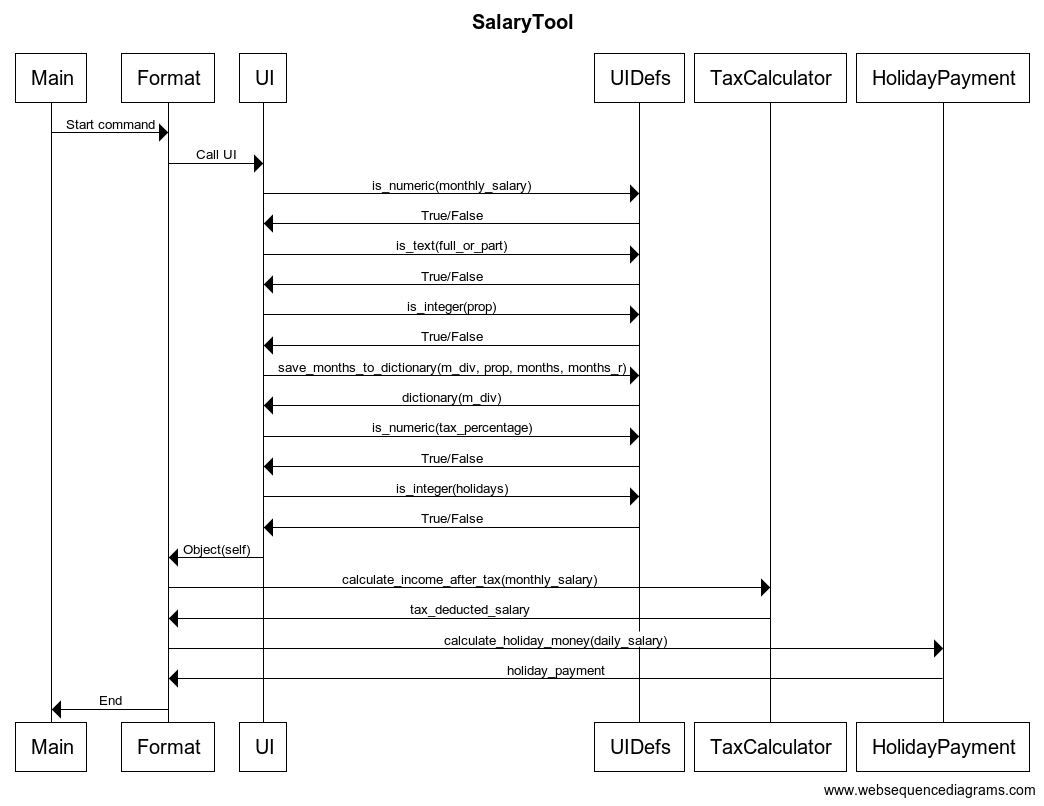
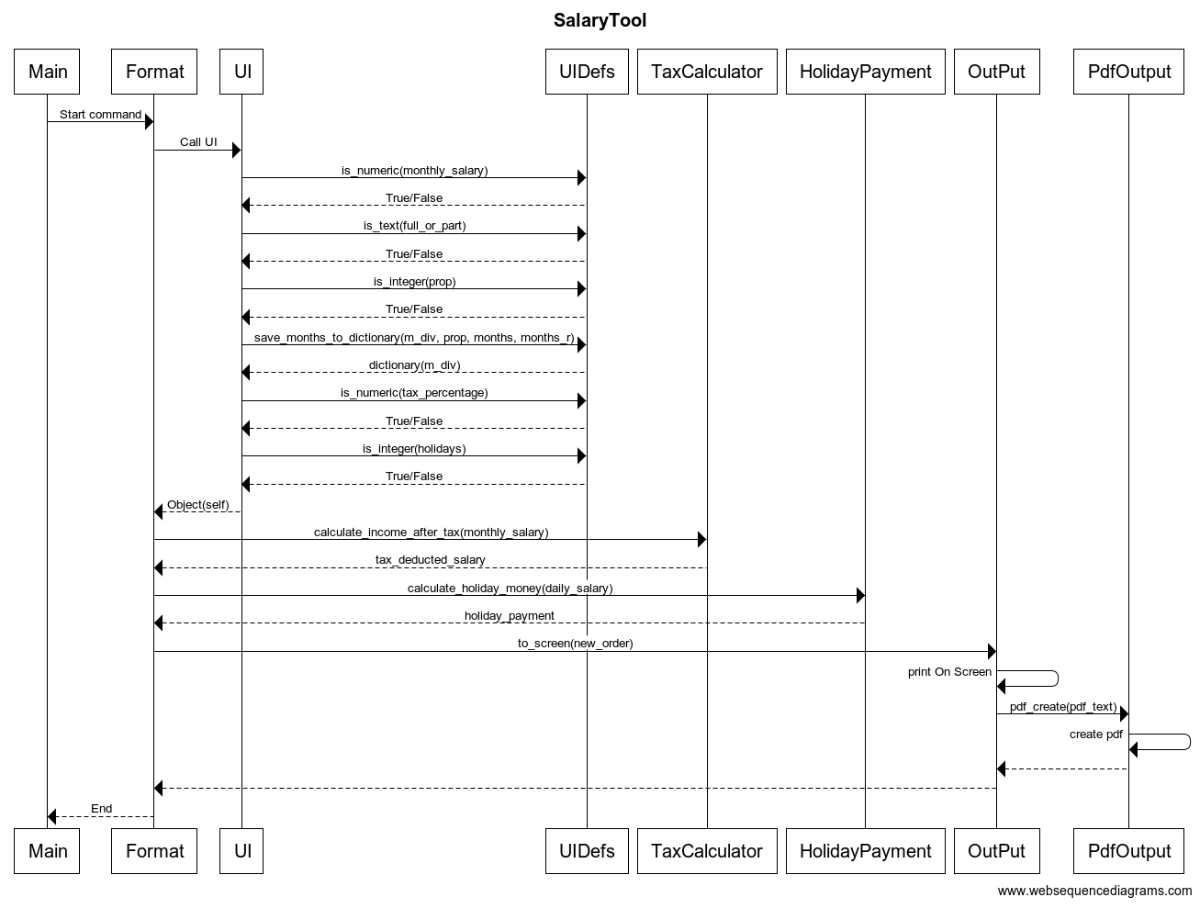
pdf luokkaerittely

diff --git a/SalaryTool/src/formatting/output.py b/SalaryTool/src/formatting/output.py
@@ -2,8 +2,19 @@
 from formatting.pdf_output import PdfOutput
 
 class OutPut:
+    """Luodaan otsikot sekä tulostetaan kasattu dataa ruudulle sekä kutsuu PdfOutput luokkaa pdf tallennusta varten
+    
+        Attributes:
+            
+        """
 
     def __init__(self):
+        """Luokan konstruktori, määritellään muuttujat sekä PdfOutput
+
+        Args:
+            
+        """
+
         self.holiday_net = 0
         self.holiday_gross = 0
         self.net = 0
@@ -12,6 +23,9 @@ class OutPut:
         self.pdf_output = PdfOutput()
         
     def _print_to_screen(self):
+        """Rivi riviltä tulostus ruudulle
+        """
+
         print("\n\n")
         for t in self.pdf_text:
             if t == "NewPage":
@@ -20,11 +34,16 @@ class OutPut:
             print(t)
             if(t[-1] == ":"):
                 print("\n")        
-        
-
-
+    
 
     def to_screen(self, new_order):
+        """UI:ssa syötetty dataa formatoidaan vielä vähän ennen ruudulle tulostusta sekä tallennetaan muotoon
+        josta helpost luodaan pdf tiedosto
+
+        Args:
+            new_order (dictionary): sisältää käyttäjän syöttämän datan helposti tulostettavassa järjestyksess
+        """
+
         text = " Payment information:"
         self.pdf_text.append(text)
         text = "Month".center(12) + "Gross".center(12) +"Net".center(12) + "Holiday Gross".center(20) + "Holiday net".center(20) + "Worktime %".center(10)
@@ -39,7 +58,6 @@ class OutPut:
             self.gross += float(li[1])
             self.net += float(li[2])
             
-
    
         self.pdf_text.append("NewPage")
         text = " Actual payment:"
@@ -53,7 +71,6 @@ class OutPut:
             if(month == 6):
                 tot = float(li[2]) + round(self.holiday_net,2)
                 text = li[0].center(12) + str(round(tot,2)).center(12) + str(round(self.holiday_net,2)).center(12)
-                
                 self.pdf_text.append(text)
                 
             else:
@@ -64,7 +81,6 @@ class OutPut:
         self.pdf_text.append("NewPage")
         text = " Yearly Summary:"
         self.pdf_text.append(text)
-        
         text = "Gross".center(12) + "Net".center(12) + "HP".center(12)
         self.pdf_text.append(text) 
         year_gross = self.gross + self.holiday_gross
@@ -74,5 +90,4 @@ class OutPut:
 
         self._print_to_screen()
 
-        self.pdf_output.pdf_create(self.pdf_text)    
-    
+        self.pdf_output.pdf_create(self.pdf_text)

diff --git a/SalaryTool/src/formatting/pdf_output.py b/SalaryTool/src/formatting/pdf_output.py
@@ -2,26 +2,57 @@ from fpdf import FPDF
 from datetime import datetime
 
 class PdfOutput:
+    """Tallennus pdf muotoon
+
+        Attributes:
+            
+        """
+
 
     def __init__(self):
+        """Luokan konstruktori, määritellään muuttujat
+
+        Args:
+            
+        """
+
         self.pdf = FPDF()
         self.line = 0 
         self.save_as = "SalaryCalculation " + str(datetime.now()) + ".pdf"
 
     def _pdf_create_new(self):
+        """Pohjustetaan tyhjä pdf tiedosto pohjaksi tallenteelle
+        """
+
         self.pdf.add_page()
         self.pdf.set_author("Auto Generated By SalaryTools")
         self.pdf.set_title("Salary Calculation")
         self.pdf.set_font("Helvetica", size = 12.5)
 
     def _pdf_do_insert(self,text):
+        """Kirjoittaa pdf:ään rivi riviltä listan sisältämät alkiot
+
+        Args:
+            text (list): Listan jokainen alkio tulostuu omalle rivilleen
+        """
+
         self.line += 1
         self.pdf.cell(200, 10, txt = text, ln = self.line, align = "L")
 
     def _pdf_add_page(self):
+        """Uusi sivu pdf:n
+        """
+
         self.pdf.add_page()
 
     def pdf_create(self, text:list):
+        """Kutsutaan Output luokasta, kutsuu muita luokan funktioita jotka kirjoittavat text:listan pdf:n
+        tallentaa pdf käyttäjän koneelle
+
+        Args:
+            text (list): sisältää Output luokan muokkaman datan 
+        """
+
         self._pdf_create_new()
 
         for t in text:

diff --git a/SalaryTool/src/tests/holiday_payment_test.py b/SalaryTool/src/tests/holiday_payment_test.py
@@ -13,6 +13,9 @@ class TestHolidayPayment(unittest.TestCase):
         self.daily_salary = 200
         u_x = type('', (), {})()
         u_x.holidays = self.holidays
+        u_x.monthly_salary = 1000
+        u_x.paid_holiday_days = 20
+        u_x.daily_salary = 50
 
     def test_holiday_payment_days(self):
         hdp = HolidayPayment.holiday_payment_days(self)
@@ -29,3 +32,7 @@ class TestHolidayPayment(unittest.TestCase):
     def test_calculate_holiday_money_part_time(self):
         self.assertEqual(HolidayPayment.calculate_holiday_money_part_time(self, 50), 100)   
     
+
+    def test_class_init_value(u_x):
+        o = HolidayPayment(u_x)
+        #self.assertEqual(o.paid_holiday_days,20)

diff --git a/SalaryTool/src/tests/format_test.py b/SalaryTool/src/tests/format_test.py
@@ -1,0 +1,17 @@
+import unittest
+from formatting.format import Format
+
+class TestFormat(unittest.TestCase):
+
+    def setUp(self):
+        
+        self.u_x = type('', (), {})()
+        self.u_x.monthly_salary = 1000
+        self.u_x.tax_percentage   = 50
+        self.u_x.m_div = {100: 1}
+        self.u_x.holidays = 20
+        
+
+
+    def test_re_format(self):
+        pass

diff --git a/SalaryTool/dokumentaatio/vaatimusmaarittely.md b/SalaryTool/dokumentaatio/vaatimusmaarittely.md
@@ -14,14 +14,14 @@ Ohjelman käyttäminen ei vaadi rekisteröitymistä, kaikille käyttäjille toim
 Käyttöliittymissä tulee olemaan mahdollisuus syöttää seuraavat tiedot: 
 	
 	- [x] kk palkka						 
-	- [x] valinta brutto- / netto tuloille
-	  	- [x] mahdollistaa veroprosentin syötön 
+	- [x] verotietojen syöttö
+	  	- [x] mahdollistaa brutto / netto tulot 
 	- [x] osa-aikaisuus vai kokoaika
 	- [x] aika mille tulot lasketaan ja millä aikaisuudella
 	- [x] tulostus summista ja niiden jakautumisesta kk tasolla
 	- [x] lomapäivien syöttö
-	- [ ] ruudulle tulostus luettavaan muotoon
-	- [ ] tallennus tiedostoon txt tai pdf	
+	- [x] ruudulle tulostus luettavaan muotoon
+	- [x] tallennus tiedostoon pdf muotoon	
 
 ## Ensimmäisen version toiminnallisuus 
 

diff --git a/SalaryTool/dokumentaatio/tyoaikakirjanpito.md b/SalaryTool/dokumentaatio/tyoaikakirjanpito.md
@@ -19,4 +19,5 @@
 |10.12.21|15:00 - 18:00  |Docstring                                                     |3:00|
 |11.12.21|15:00 - 20:00  |Output luokan tekoa                                           |5:00|
 |11.12.21|20:00 - 22:00  |Pdf tallennus                                                 |2:00| 
-|        |               |Tunnit yhteensä 						|60:40|
+|12.12.21|16:00 - 20:00  |Dokumentointi, testejä, pdf tallennukselle oma luokka         |4:00|
+|        |               |Tunnit yhteensä 						|64:40|

diff --git a/SalaryTool/dokumentaatio/kayttoohje.md b/SalaryTool/dokumentaatio/kayttoohje.md
@@ -69,3 +69,7 @@ Oman veroprosenttinsa voi laskea osoitteessa [laskuri](https://avoinomavero.vero
 7 Viimeiseksi pyydetään palkallisten lomapäivien määrää `Paid vacation days:` näiden avulla lasketaan lomarahat
 
 ![Ohje](./kuvat/tax_holiday.png)
+
+8 Tämän jälkeen ruudulle tulostuu erittely tuloista kuukausitasolla sekä polku jonne data on tallennettu pdf muodossa
+
+![Ohje](./kuvat/final.png)

diff --git a/SalaryTool/dokumentaatio/arkkitehtuuri.md b/SalaryTool/dokumentaatio/arkkitehtuuri.md
@@ -1,9 +1,9 @@
-#Luokkakaavio
+# Luokkakaavio
 
 ![Luokkakaavio](./kuvat/luokkakaavio.jpg)
 
 
-#Sekvenssikaavio
+# Sekvenssikaavio
 
 Kun ohjelma käynnistetään mainissä ohjelman kontrolli siirtyy Format luokan kautta UI:hin. UI:ssä käyttäjää pyydetään syöttämään 
 	- kk palkka
